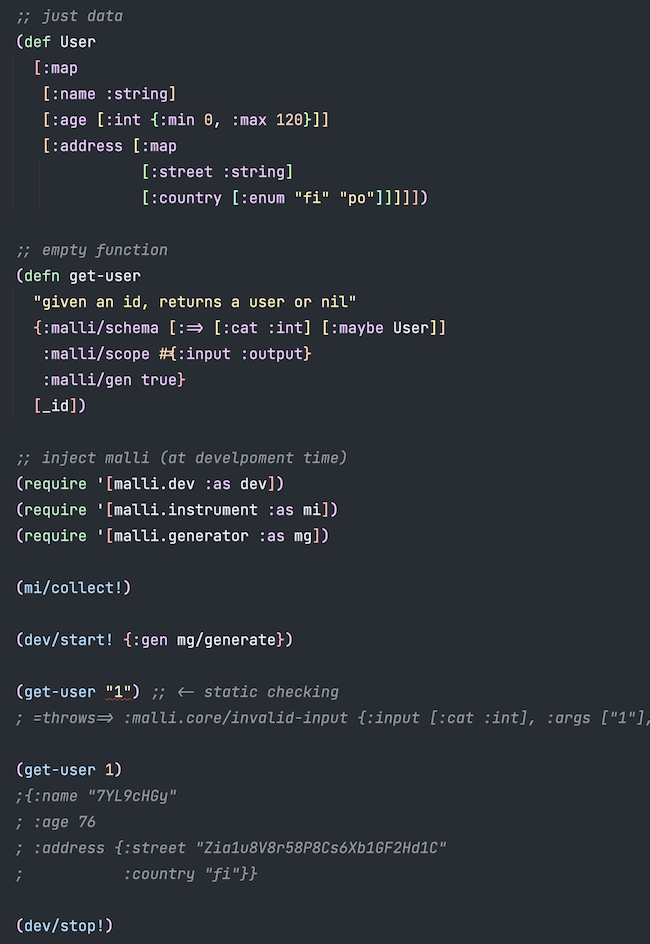
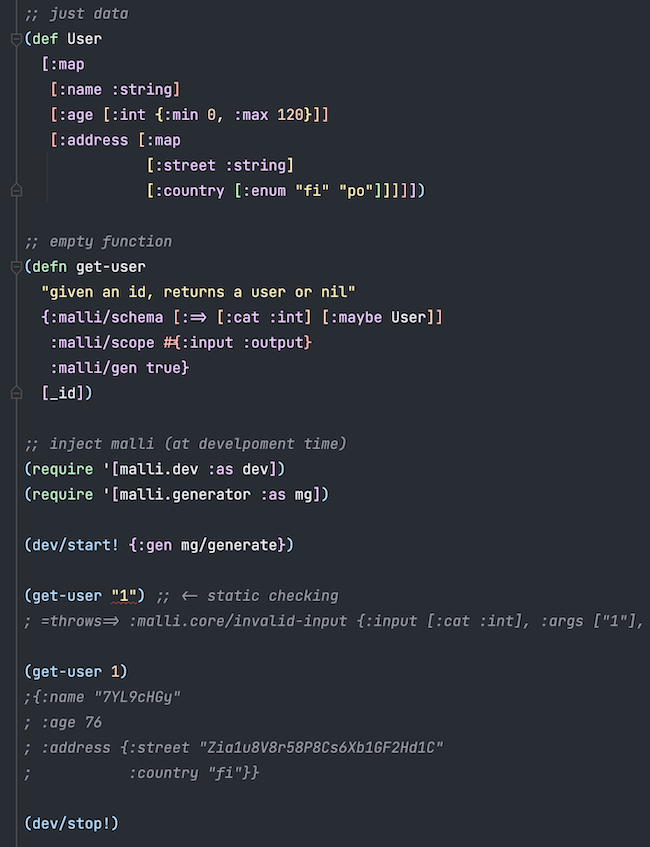
auto-collect in dev-mod

Changed region(s): [[0.0, 0.0, 1.0, 0.9516], [0.0308, 0.9516, 0.1846, 1.0], [0.0, 0.2149, 0.0308, 0.2456]]

diff --git a/docs/function-schemas.md b/docs/function-schemas.md
@@ -463,7 +463,7 @@ For better DX, there is `malli.dev` namespace.
 (require '[malli.dev :as dev])
 ```
 
-It's main entry points is `dev/start!`, taking same options as `mi/instrument!`. It runs `mi/instrument!` once and starts watching the function registry for changes. Any change that matches the filters will cause automatic re-instrumentation for the functions. `dev/stop!` removes all instrumentation and stops watching the registry.
+It's main entry points is `dev/start!`, taking same options as `mi/instrument!`. It runs `mi/instrument!` and `mi/collect!` (for all loaded namespaces) once and starts watching the function registry for changes. Any change that matches the filters will cause automatic re-instrumentation for the functions. `dev/stop!` removes all instrumentation and stops watching the registry.
 
 ```clj
 (defn plus1 [x] (inc x))
@@ -560,11 +560,7 @@ Example of using `malli.dev` instrumentation with var meta-data:
 
 ;; inject malli (at develpoment time)
 (require '[malli.dev :as dev])
-(require '[malli.instrument :as mi])
 (require '[malli.generator :as mg])
-
-(mi/collect!)
-; #{#'domain/get-user}
 
 (dev/start! {:gen mg/generate})
 ; =prints=> ..instrumented #'domain/get-user
